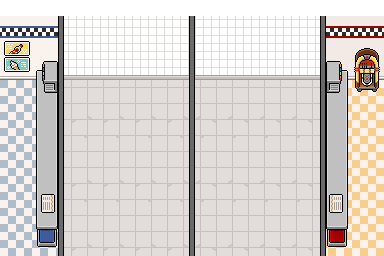
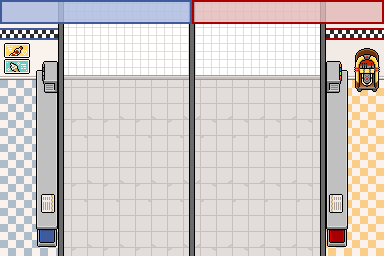
updated ui image, graphics fixes

Changed region(s): [[0.0, 0.0, 1.0, 0.3125]]

diff --git a/PowerOutage.java b/PowerOutage.java
@@ -93,12 +93,12 @@ public class PowerOutage extends Effect
         if (restaurantSide.equals("Blue"))
         {
             // Fill left half (Blue side)
-            image.fillRect(0, 0, 570, 800);
+            image.fillRect(0, 60, 570, 800);
         }
         else // Red side
         {
             // Fill right half (Red side)
-            image.fillRect(600, 0, 650, 800);
+            image.fillRect(600, 60, 650, 800);
         }
         
         setImage(image);

diff --git a/RestaurantWorld.java b/RestaurantWorld.java
@@ -22,7 +22,7 @@ public class RestaurantWorld extends World
     private int currentDay;
     private boolean spawnAtRed;
 
-    private static int labelHeight = 38;
+    private static int labelHeight = 30;
     private static int labelSize = 25;
 
     public RestaurantWorld(){
